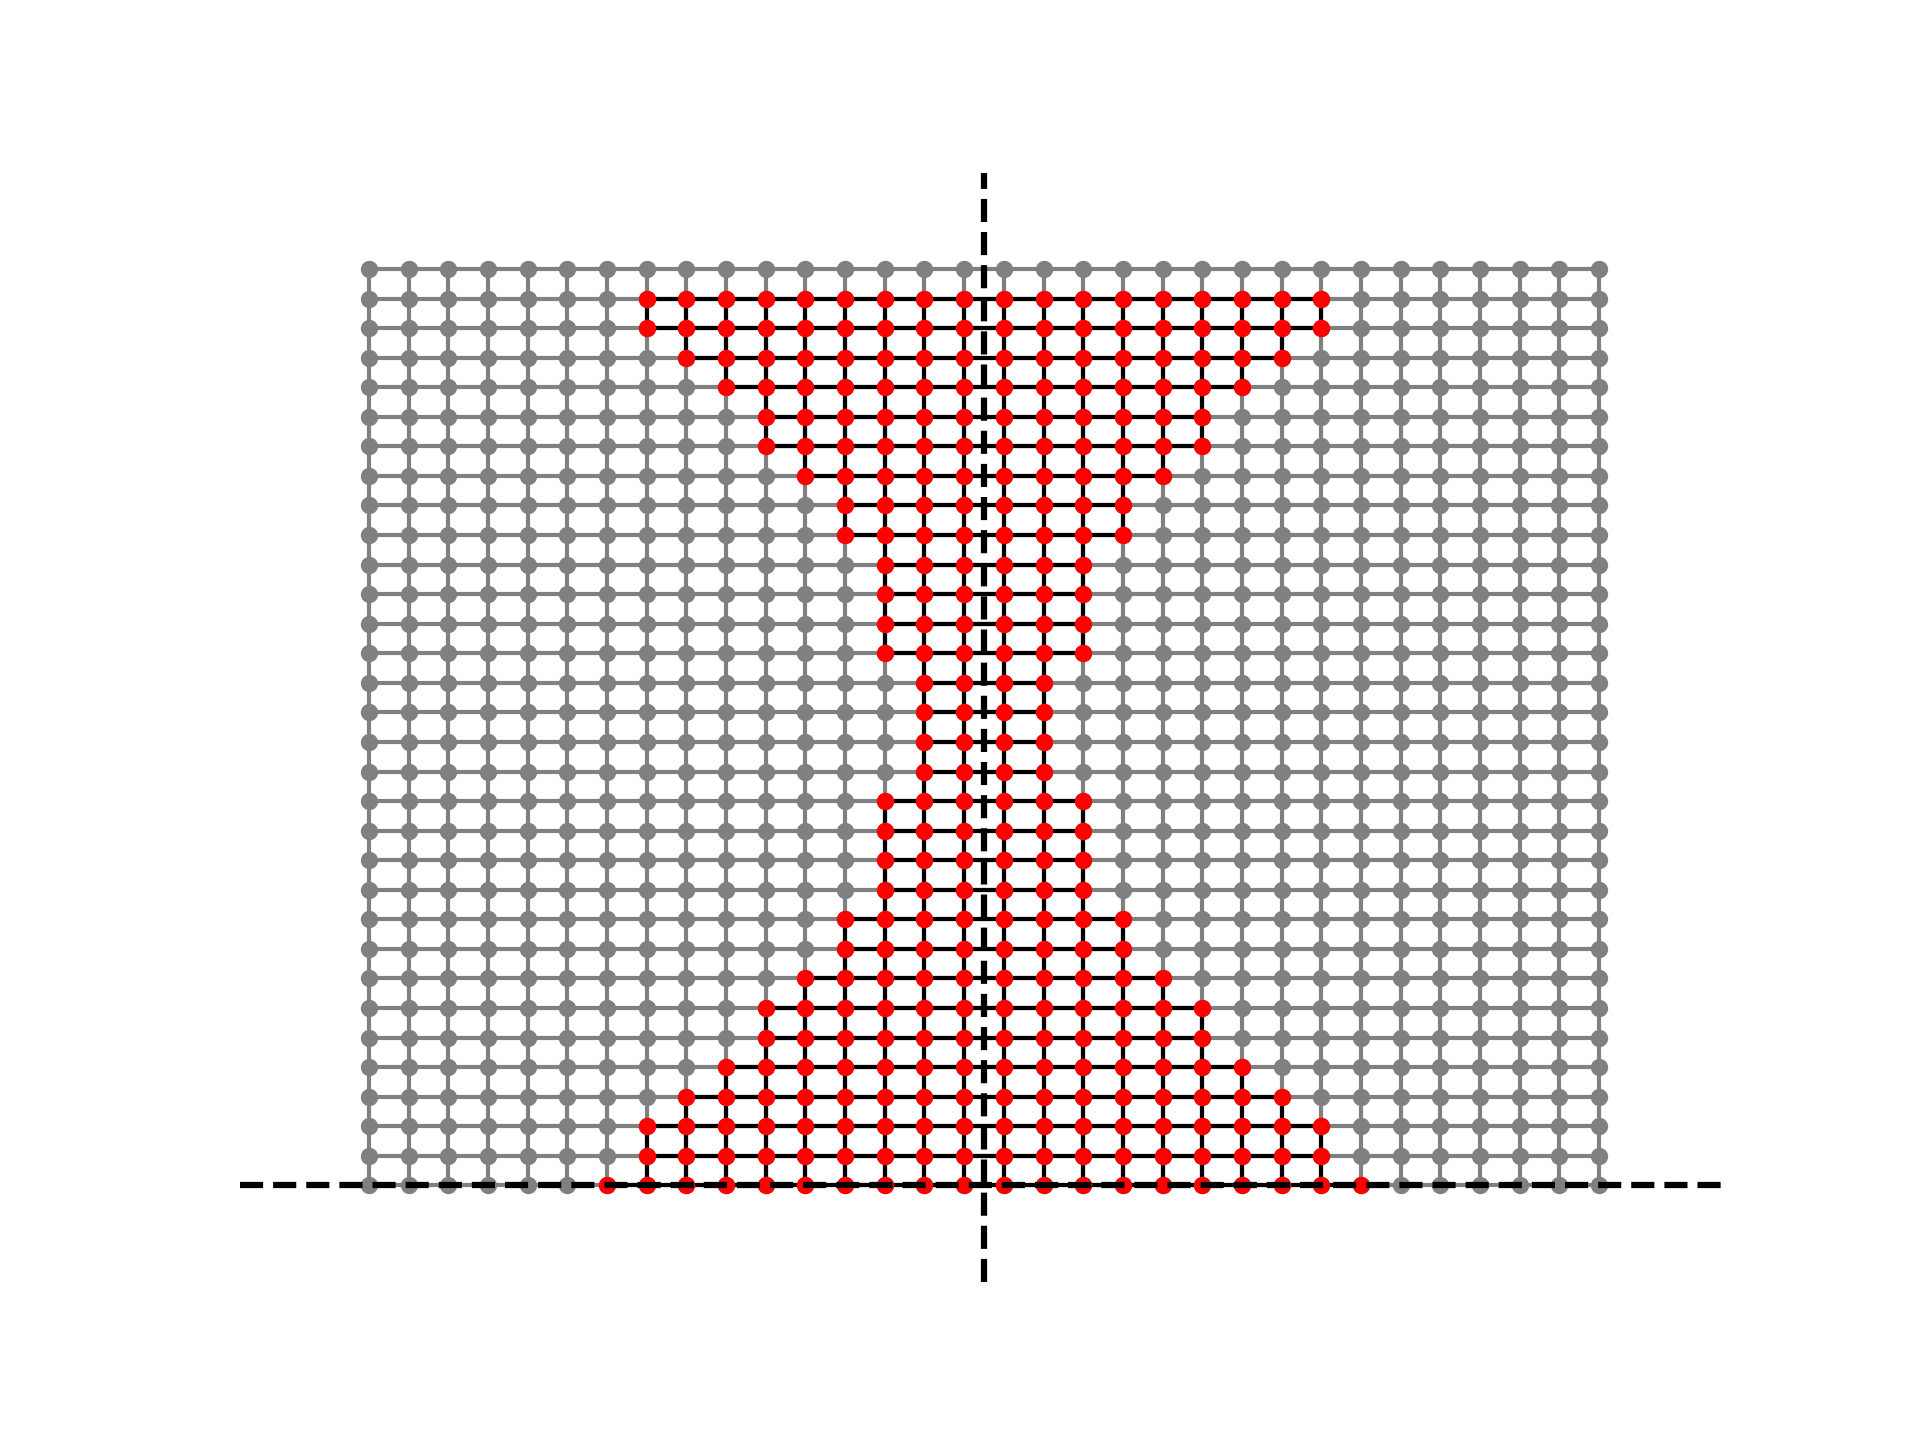
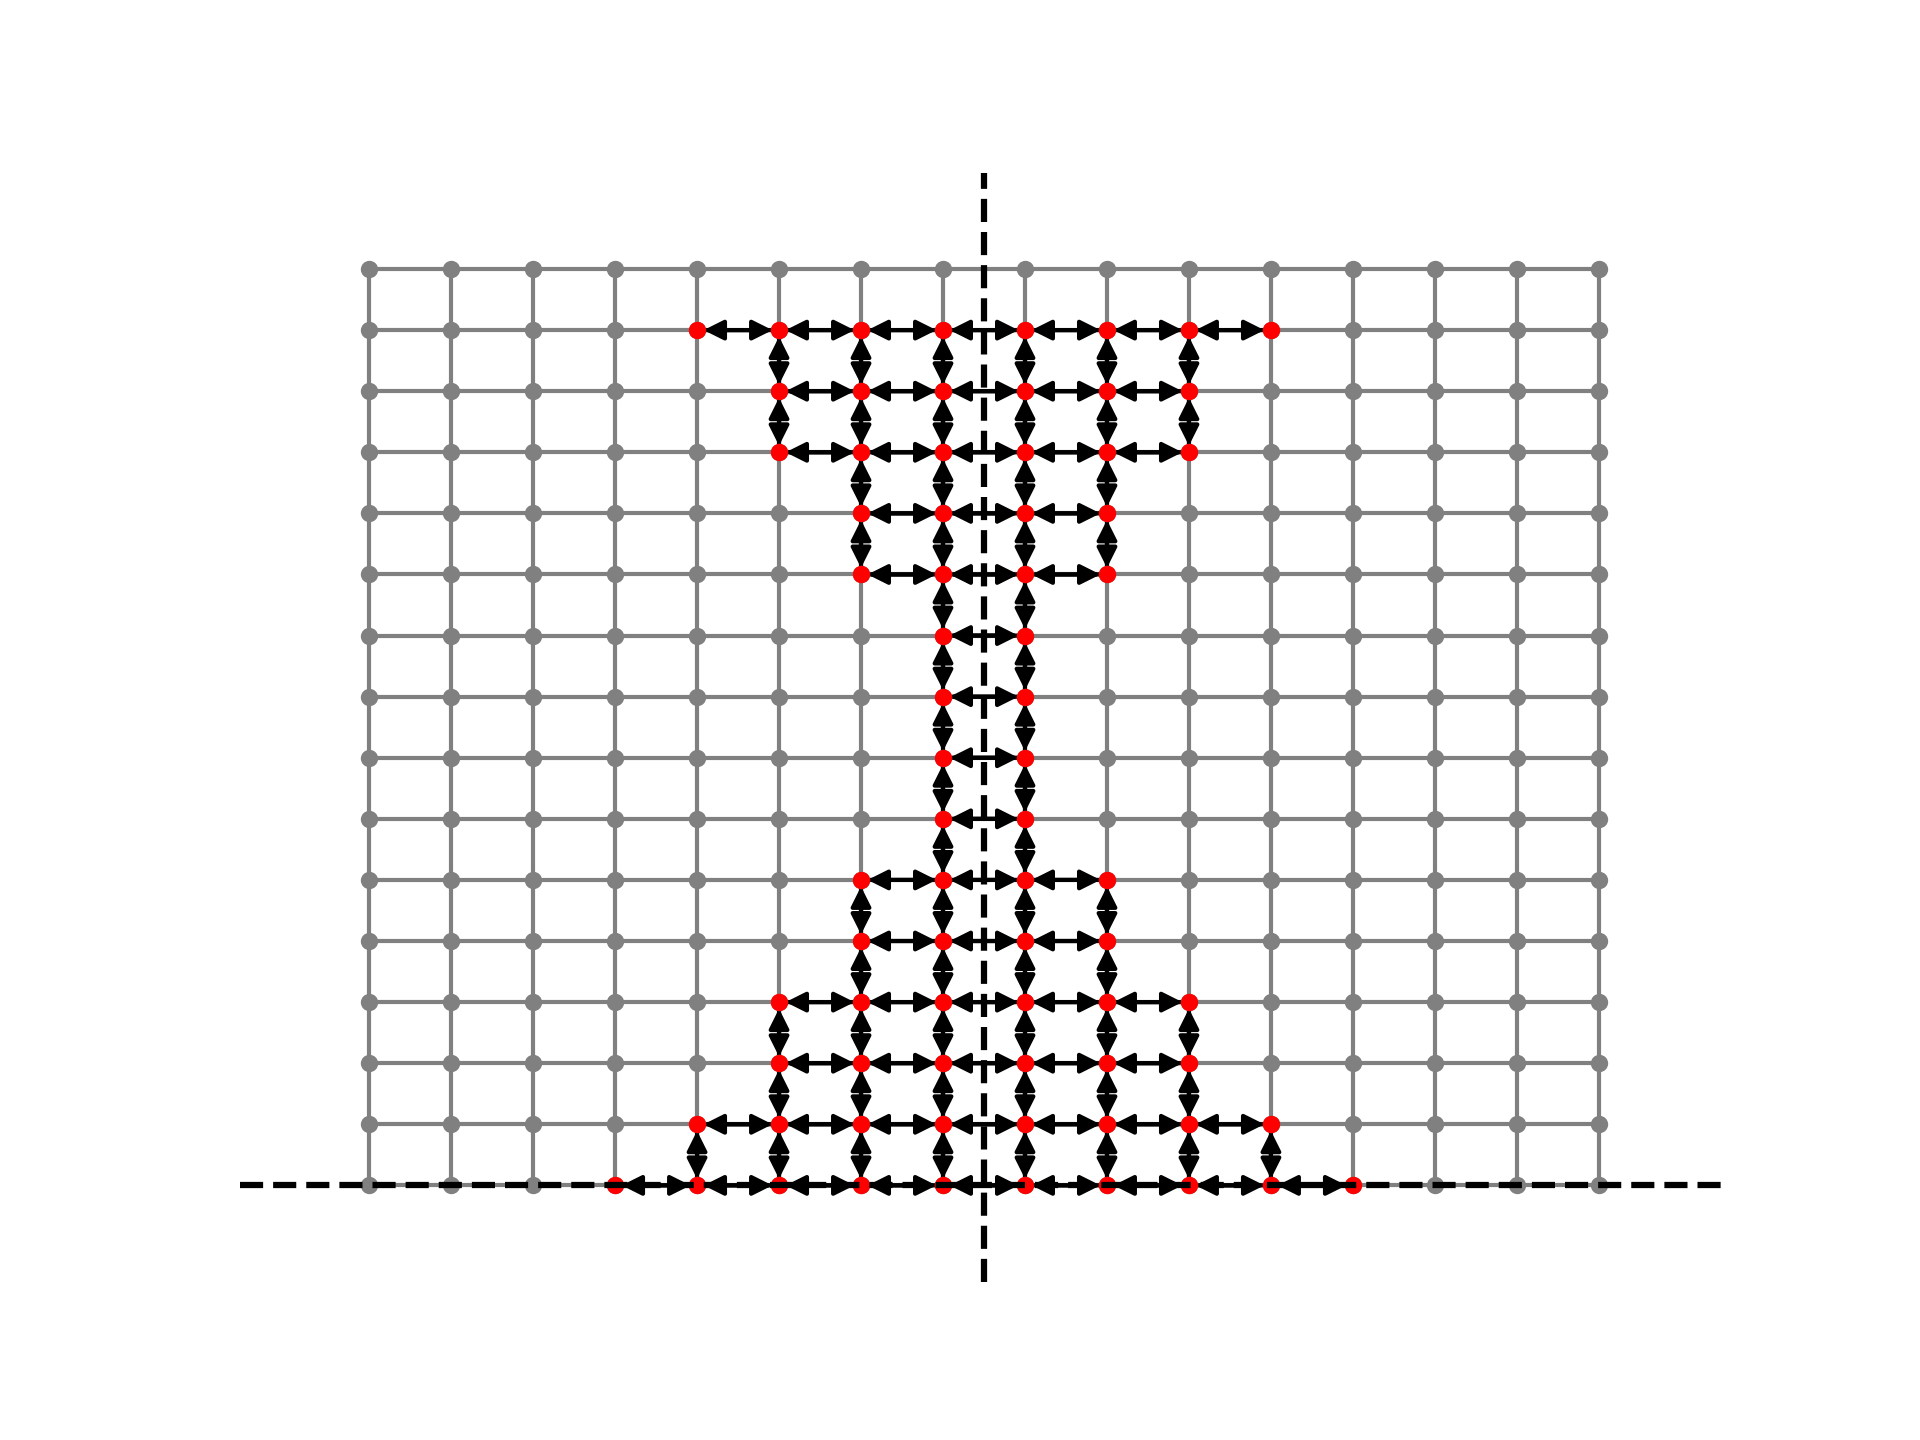
start implementing MeshGraphNets

Changed region(s): [[0.1875, 0.1875, 0.8438, 0.8438]]

diff --git a/mlutils/models.py b/mlutils/models.py
@@ -2,16 +2,25 @@
 import torch
 from torch import nn
 
+import torch_scatter
+import torch_geometric
+from torch_geometric.nn import MessagePassing
+
 import math
 
 __all__ = [
     "MLP",
     "Sine",
     "SDFClamp",
+    #
     "C2d_block",
     "CT2d_block",
-    "double_conv",
+    #
     "UNet",
+    "double_conv",
+    #
+    "MeshGraphNet",
+    "MeshGraphLayer",
 ]
 
 #------------------------------------------------#
@@ -52,15 +61,15 @@ class Sine(nn.Module):
     def forward(x):
         return torch.sin(x)
 
+@torch.no_grad()
 def siren_init_(layer: nn.Linear, w):
-    with torch.no_grad():
+    fan = nn.init._calculate_correct_fan(layer.weight, "fan_in")
+    bound = math.sqrt(6 / fan)
 
-        fan = nn.init._calculate_correct_fan(layer.weight, "fan_in")
-        bound = math.sqrt(6 / fan)
+    layer.bias.uniform_(-math.pi, math.pi)
+    layer.weight.uniform_(-bound, bound)
+    layer.weight.mul_(w)
 
-        layer.bias.uniform_(-math.pi, math.pi)
-        layer.weight.uniform_(-bound, bound)
-        layer.weight.mul_(w)
     return
 
 #------------------------------------------------#
@@ -75,7 +84,7 @@ class SDFClamp(nn.Module):
         return self.eps * self.act(x)
 
 #------------------------------------------------#
-# Conv
+# Conv blocks
 #------------------------------------------------#
 def C2d_block(ci, co, k=None, ctype=None, act=None, lnsize=None):
     """
@@ -110,7 +119,7 @@ def C2d_block(ci, co, k=None, ctype=None, act=None, lnsize=None):
     return nn.Sequential(*layers)
 
 #------------------------------------------------#
-# ConvTranspose
+# ConvTranspose blocks
 #------------------------------------------------#
 def CT2d_block(ci, co, k=None, ctype=None, act=None, lnsize=None):
     """
@@ -202,14 +211,90 @@ class UNet(nn.Module):
         return out
 
 #------------------------------------------------#
-# Graph Neural Networks
+# MeshGraphNets
+# https://medium.com/stanford-cs224w/learning-mesh-based-flow-simulations-on-graph-networks-44983679cf2d
 #------------------------------------------------#
-# import torch_scatter
-# import torch_geometric
+class MeshGraphNet(nn.Module):
+    def __init__(self, ci_node, ci_edge, co, hidden_dim, num_layers, **kwargs):
+        super().__init__()
+
+        self.node_encoder = nn.Sequential(
+            nn.Linear(ci_node, hidden_dim),
+            nn.ReLU(),
+            nn.Linear(hidden_dim, hidden_dim),
+            nn.LayerNorm(hidden_dim),
+        )
+
+        self.edge_encoder = nn.Sequential(
+            nn.Linear(ci_edge, hidden_dim),
+            nn.ReLU(),
+            nn.Linear(hidden_dim, hidden_dim),
+            nn.LayerNorm(hidden_dim),
+        )
+
+        self.processor = nn.ModuleList()
+        for _ in range(num_layers):
+            layer = MeshGraphLayer(hidden_dim, hidden_dim, **kwargs)
+            self.processor.append(layer)
+
+        self.decoder = nn.Sequential(
+            nn.Linear(hidden_dim, hidden_dim),
+            nn.ReLU(),
+            nn.Linear(hidden_dim, co),
+        )
+
+        return
+
+    def forward(self, data):
+        xn, xe = data.x, data.edge_attr
+
+        xn = self.node_encoder(xn)
+        xe = self.edge_encoder(xe)
+
+        for layer in self.processor:
+            xn, xe = layer(xn, xe, data.edge_index)
+
+        xn = self.decoder(xn)
+
+        return xn
 #
-# from torch_geometric.nn.conv import MessagePassing
-# from torch_geometric.data import Data, DataLoader
 
+class MeshGraphLayer(MessagePassing):
+    def __init__(self, ci, co, **kwargs):
+        super().__init__(**kwargs)
 
+        self.node_mlp = nn.Sequential(
+            nn.Linear(ci, co)
+            nn.ReLU(),
+            nn.Linear(co, co),
+            nn.LayerNorm(co),
+        )
+
+        self.edge_mlp = nn.Sequential(
+            nn.Linear(ci, co)
+            nn.ReLU(),
+            nn.Linear(co, co),
+            nn.LayerNorm(co),
+        )
+
+        return
+
+    def forward(self, xn, xe, edge_index):
+        yn, ye = self.propagate(edge_index, x=xn, edge_attr=xe)
+
+        yn = torch.cat([yn, xn], dim=1) # self-aggregation
+        yn = self.node_mlp(yn)          # process
+        yn = yn + xn                    # residual connection
+
+        return yn, ye
+
+    def message(self, xi, xj, xe):
+        return
+
+    def aggregate(self, ye, edge_index):
+        # aggregate through concatenation
+        # maybe we need to modify as nodes have different degrees
+        return
+#
 #------------------------------------------------#
 #

diff --git a/mlutils/train.py b/mlutils/train.py
@@ -49,7 +49,7 @@ class Trainer:
         # TODO: loader pin_memory=True, pin_memory_device=device
         # would then remove batch.to(device) calls in training loop
         # TODO: loader sampler (replacement = True)
-        # check out minigpt for reference
+        # check out minigpt for reference on adding callbacks
 
         if device is None:
             device = (
@@ -65,6 +65,14 @@ class Trainer:
             _batch_size = 32
         if __batch_size is None:
             __batch_size = len(_data)
+        #
+
+        # branch on isinstance(_data, torch.utils.data.Dataset)
+
+        # if isinstance(_data[0], torch_geometric.data.Data):
+        #     pass
+        # else: # use torch
+        #     pass
 
         _loader  = DataLoader(_data, batch_size=_batch_size)
         __loader = DataLoader(_data, batch_size=__batch_size, shuffle=False)
@@ -192,13 +200,12 @@ class Trainer:
     def train_epoch(self):
         self.model.train()
 
-        batch_iterator = enumerate(self._loader)
         batch_iterator = tqdm(
-            batch_iterator, total=len(self._loader),
-            bar_format='{n_fmt}/{total_fmt} {desc}{bar}[{rate_fmt}]'
+            self._loader,
+            bar_format='{n_fmt}/{total_fmt} {desc}{bar}[{rate_fmt}]',
         )
 
-        for (batch, (x, u)) in batch_iterator:
+        for (x, u) in batch_iterator:
             x, u = x.to(self.device), u.to(self.device)
 
             uh = self.model(x)
@@ -217,6 +224,7 @@ class Trainer:
 
         return
 
+    @torch.no_grad()
     def evaluate(self, loader):
         self.model.eval()
 
@@ -226,16 +234,15 @@ class Trainer:
         # if statsfun:
         #     pass
 
-        with torch.no_grad():
-            for (x, u) in loader:
-                x, u = x.to(self.device), u.to(self.device)
-                uh = self.model(x)
-                loss = self.lossfun(uh, u)
-                avg_loss += loss.item()
+        for (x, u) in loader:
+            x, u = x.to(self.device), u.to(self.device)
+            uh = self.model(x)
+            loss = self.lossfun(uh, u)
+            avg_loss += loss.item()
 
-                # if statsfun:
-                #     pass
-                #
+            # if statsfun:
+            #     pass
+            #
             #
         #
 

diff --git a/sandbox/__main__.py b/sandbox/__main__.py
@@ -57,7 +57,7 @@ def train_gnn_nextstep(device, outdir, resdir, name, train=True):
     fig.savefig(graphfile, dpi=300)
 
     # nx, nz, nt = 128, 128, 100
-    shape = sandbox.Shape(nx, nz, nt, nw1, nw2)
+    # shape = sandbox.Shape(nx, nz, nt, nw1, nw2)
     data = sandbox.makedata(
         shape, inputs="tT", outputs="T", datatype="graph", mask="finaltime",
     )
@@ -296,7 +296,7 @@ def train_mlp_sdf(device, outdir, resdir, train=True):
 
     # TRAIN
     if train:
-        train_loop(model, data, device=device, _batch_size=128, lossfun=nn.L1Loss())
+        train_loop(model, _data, data_=data_, device=device, _batch_size=128, lossfun=nn.L1Loss())
         torch.save(model.to("cpu").state_dict(), modelfile)
 
     # VISUALIZE
@@ -366,7 +366,7 @@ def view_shape(resdir, name):
     fig.savefig(imagefile, dpi=300)
 
     # graph
-    nx, nz, nt = 32, 32, 10
+    nx, nz, nt = 16, 16, 10
     shape = sandbox.Shape(nx, nz, nt, nw1, nw2)
     fig = shape.plot_final_graph()
     fig.savefig(graphfile, dpi=300)
@@ -376,11 +376,7 @@ def view_shape(resdir, name):
 
 if __name__ == "__main__":
 
-    # random seed
-    seed = 0
-    random.seed(seed)
-    np.random.seed(seed)
-    torch.manual_seed(seed)
+    mlutils.set_seed()
 
     parser = argparse.ArgumentParser(description = 'Sandbox')
     parser.add_argument('--gpu_device', default=0, help='GPU device', type=int)
@@ -400,10 +396,10 @@ if __name__ == "__main__":
     outdir = "./out/"
     resdir = "./res/"
 
-    view_shape(resdir, "alldomain")
-    view_shape(resdir, "hourglass")
+    # view_shape(resdir, "alldomain")
+    # view_shape(resdir, "hourglass")
 
-    # train_mlp_sdf(device, outdir, residr, "hourglass")
+    # train_mlp_sdf(device, outdir, resdir, "hourglass")
 
     # train_mlp(device, outdir, resdir, "alldomain")
     # train_mlp(device, outdir, resdir, "hourglass")

diff --git a/sandbox/dataset.py b/sandbox/dataset.py
@@ -99,10 +99,10 @@ def makedata(
         x = x.reshape(self.nt, -1)
         z = z.reshape(self.nt, -1)
 
-        ex = x[:, edges[:, 0]] - x[:, edges[1]]
-        ez = z[:, edges[:, 0]] - z[:, edges[1]]
+        edge_x = x[:, edges[:, 0]] - x[:, edges[1]]
+        edge_z = z[:, edges[:, 0]] - z[:, edges[1]]
 
-        edge_features = torch.stack([ex, ez], dim=1)
+        edge_features = torch.stack([edge_x, edge_z], dim=1)
 
         raise NotImplementedError(f"Mesh datatype not implemented.")
     else:

diff --git a/mlutils/utils.py b/mlutils/utils.py
@@ -1,4 +1,21 @@
 #
+import torch
+import numpy as np
+
+import random
+
+__all__ = [
+    "set_seed",
+    "num_parameters",
+]
+
+def set_seed(seed = 0):
+    random.seed(seed)
+    np.random.seed(seed)
+    torch.manual_seed(seed)
+
+    return
+
 def num_parameters(model):
     return sum(p.numel() for p in model.parameters())
 #

diff --git a/sandbox/shape.py b/sandbox/shape.py
@@ -171,7 +171,7 @@ class Shape:
         bg_graph.add_edges_from(bg_edgeV)
 
         # active graph
-        graph = nx.Graph()
+        graph = nx.DiGraph()
         nodes = [(idx[1], idx[0]) for idx in idx_cart]
         _ix, _iz = self.cartesian_index(edges[:, 0])
         ix_, iz_ = self.cartesian_index(edges[:, 1])

diff --git a/mlutils/__init__.py b/mlutils/__init__.py
@@ -1,2 +1,3 @@
 from .models import *
 from .train import *
+from .utils import *
